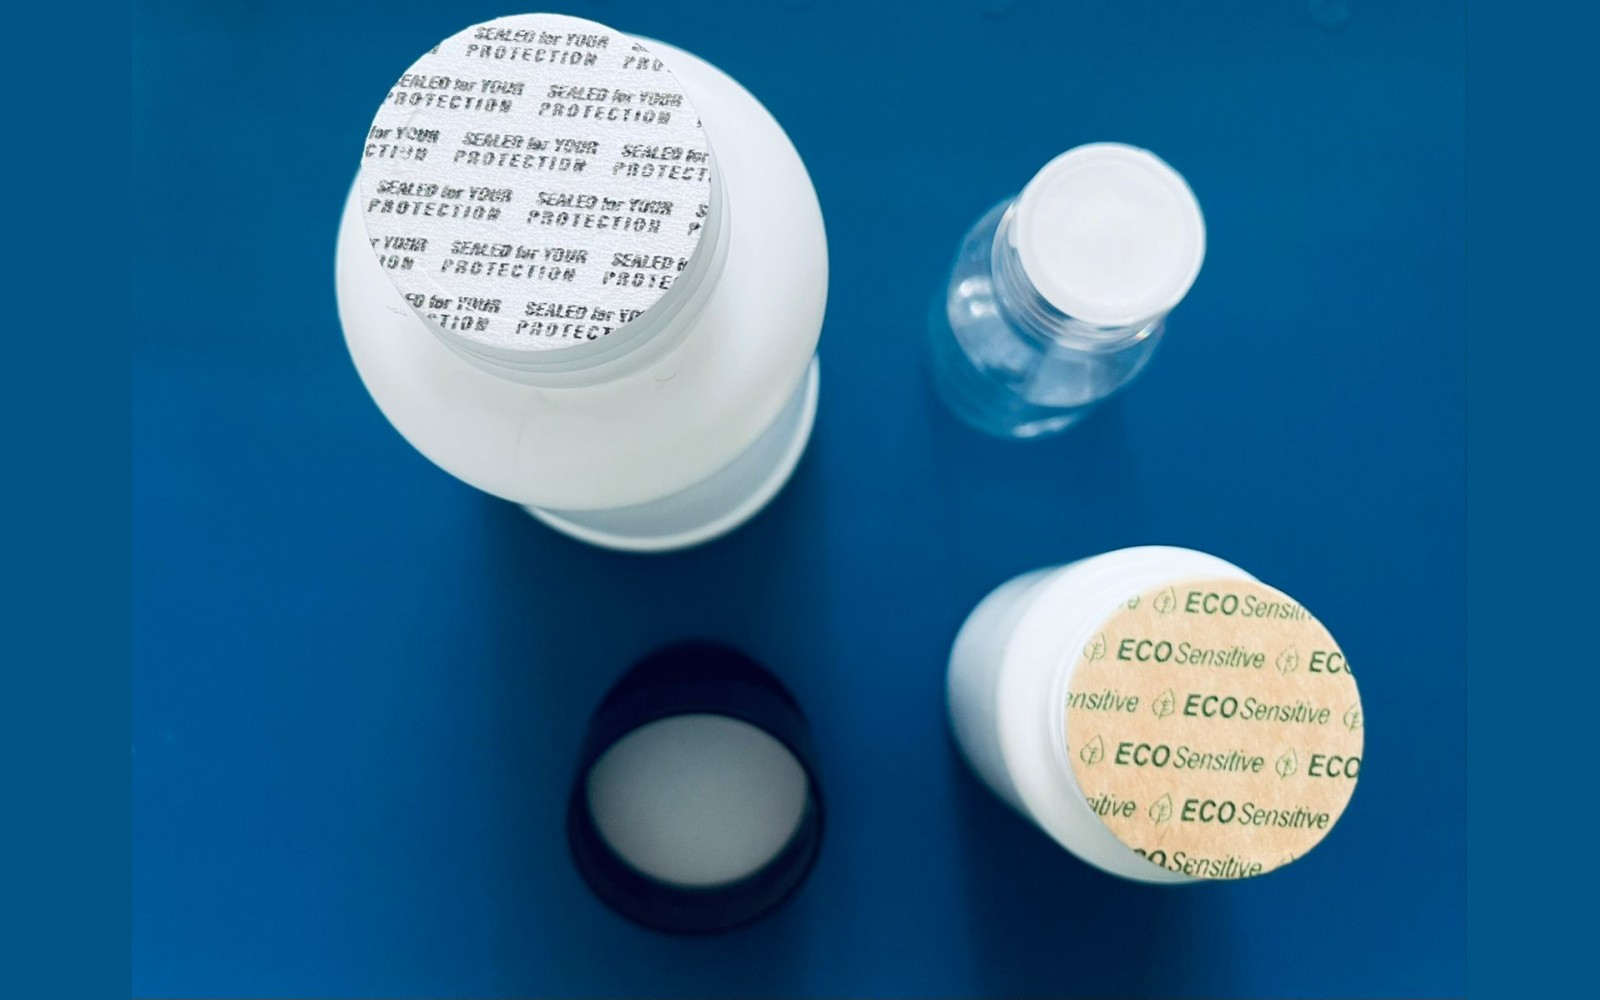
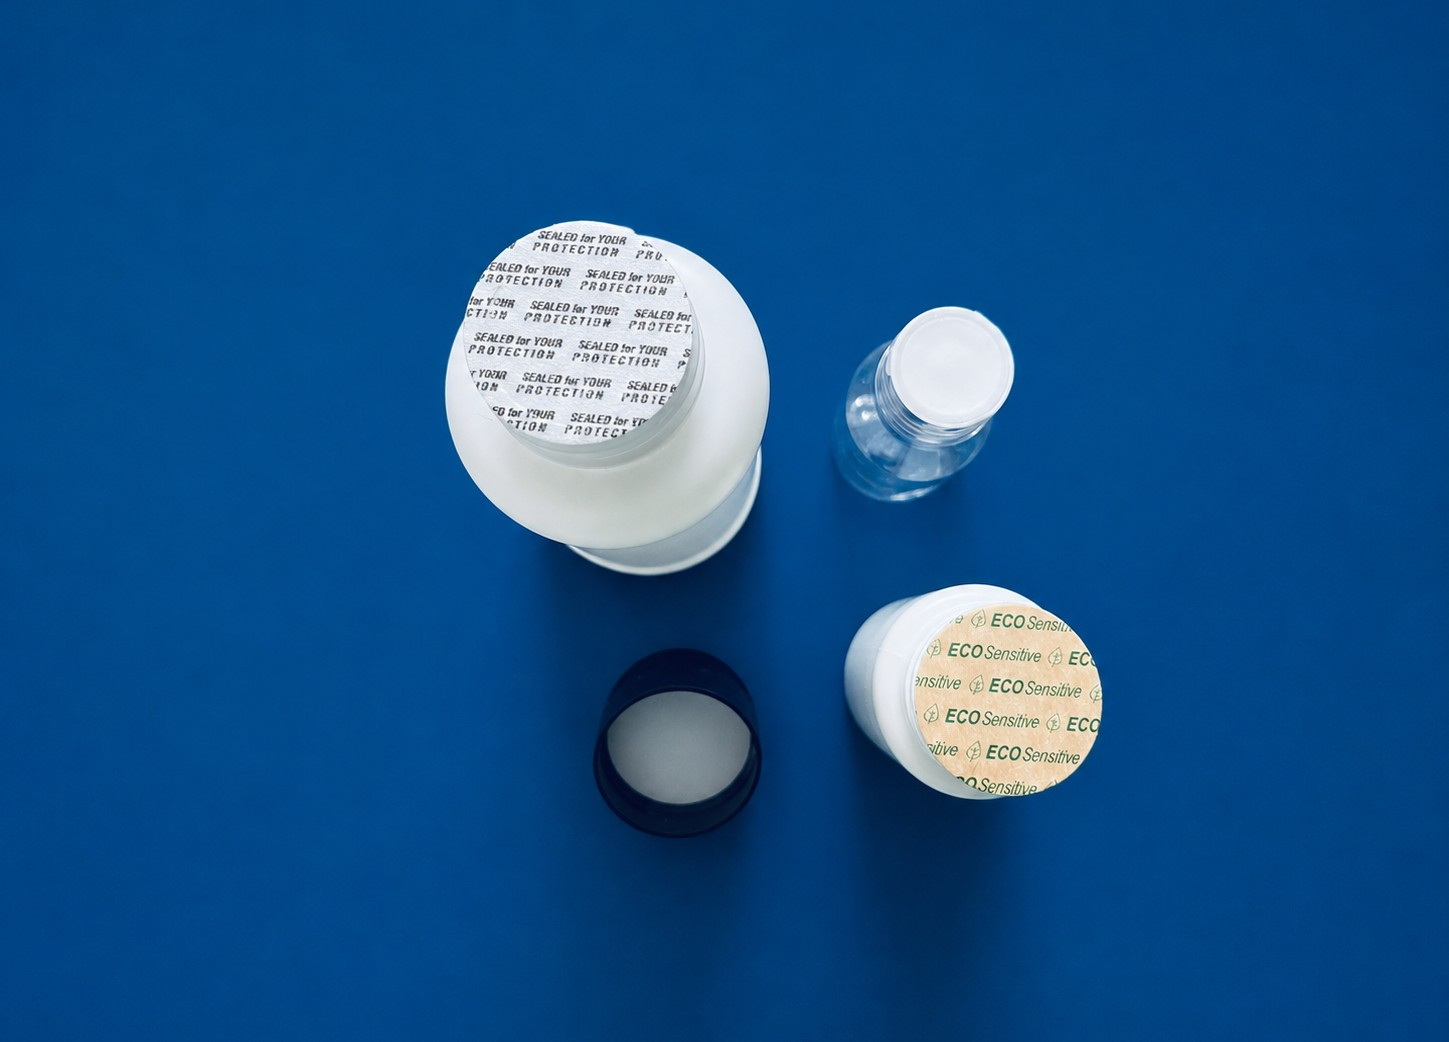
feat: silueta decorativa detras del carrusel del hero, y foto de Seguro sin recorte
Agrega formas onduladas azules suaves y un patron de puntos, en baja
opacidad, detras del carrusel (inspirado en referencia del cliente),
para que la seccion no se vea tan plana.

Reemplaza hero-seguro.jpg por una version con mas margen alrededor
del producto (generada por el cliente) para que no se corte ningun
detalle dentro del carrusel.

diff --git a/public/assets/css/style.css b/public/assets/css/style.css
@@ -71,6 +71,7 @@ img { max-width: 100%; display: block; }
 .hero {
     background: radial-gradient(120% 120% at 80% 0%, var(--primary-soft) 0%, #fff 55%);
     padding: clamp(3rem, 7vw, 6rem) 0;
+    overflow: hidden;
 }
 .hero-inner { display: grid; grid-template-columns: 1.1fr .9fr; gap: 3rem; align-items: center; }
 .badge {
@@ -82,7 +83,26 @@ img { max-width: 100%; display: block; }
 .hero-desc { color: var(--muted); font-size: 1.08rem; max-width: 46ch; margin-bottom: 1.8rem; }
 .hero-actions { display: flex; gap: 1rem; flex-wrap: wrap; }
 
-.hero-carousel { position: relative; height: 360px; border-radius: var(--radius); overflow: hidden; box-shadow: var(--shadow-lg); }
+.hero-visual-wrap { position: relative; }
+.hero-blob {
+    position: absolute; z-index: 0; pointer-events: none;
+    border-radius: 44% 56% 61% 39% / 49% 44% 56% 51%;
+    background: linear-gradient(135deg, var(--primary-soft), rgba(7, 115, 245, .12));
+}
+.hero-blob-1 { width: 300px; height: 300px; top: -50px; left: -40px; opacity: .8; }
+.hero-blob-2 {
+    width: 240px; height: 240px; bottom: -46px; right: -30px; opacity: .7;
+    background: linear-gradient(135deg, rgba(6, 41, 127, .1), var(--primary-soft));
+    border-radius: 58% 42% 39% 61% / 45% 55% 45% 55%;
+}
+.hero-dots-bg {
+    position: absolute; z-index: 0; pointer-events: none;
+    top: 8%; right: -8%; width: 130px; height: 130px;
+    background-image: radial-gradient(var(--primary) 1.6px, transparent 1.6px);
+    background-size: 16px 16px;
+    opacity: .2;
+}
+.hero-carousel { position: relative; z-index: 1; height: 360px; border-radius: var(--radius); overflow: hidden; box-shadow: var(--shadow-lg); }
 .hero-carousel-slide {
     position: absolute; inset: 0; opacity: 0; transition: opacity 1s ease;
     display: flex; align-items: flex-end; justify-content: center;
@@ -242,6 +262,9 @@ img { max-width: 100%; display: block; }
 @media (max-width: 900px) {
     .hero-inner, .about-grid, .contact-grid { grid-template-columns: 1fr; }
     .hero-carousel { height: 280px; margin-top: 1rem; }
+    .hero-blob-1 { width: 220px; height: 220px; top: -30px; left: -20px; }
+    .hero-blob-2 { width: 180px; height: 180px; bottom: -30px; right: -15px; }
+    .hero-dots-bg { width: 100px; height: 100px; right: -4%; }
     .benefits-grid, .products-grid, .testimonials-grid, .footer-grid, .process-grid { grid-template-columns: 1fr 1fr; }
     .nav-toggle { display: flex; }
     .main-nav {
@@ -257,6 +280,9 @@ img { max-width: 100%; display: block; }
     .benefits-grid, .products-grid, .testimonials-grid, .footer-grid, .form-row, .process-grid { grid-template-columns: 1fr; }
     .about-stats { gap: 1.4rem; }
     .hero-carousel { height: 220px; margin-top: 1.5rem; }
+    .hero-blob-1 { width: 160px; height: 160px; top: -20px; left: -10px; }
+    .hero-blob-2 { width: 130px; height: 130px; bottom: -20px; right: -10px; }
+    .hero-dots-bg { display: none; }
 }
 
 /* ===== Blog ===== */

diff --git a/app/Views/home/index.php b/app/Views/home/index.php
@@ -13,14 +13,19 @@
                 <a href="#contacto" class="btn btn-outline btn-lg">Contáctanos</a>
             </div>
         </div>
-        <div class="hero-carousel" id="heroCarousel">
-            <div class="hero-carousel-slide active"><img src="<?= base_url('assets/img/hero-empaques.jpg') ?>" alt="Empaques"><span>Empaques</span></div>
-            <div class="hero-carousel-slide"><img src="<?= base_url('assets/img/hero-seguro.jpg') ?>" alt="Seguro"><span>Seguro</span></div>
-            <div class="hero-carousel-slide"><img src="<?= base_url('assets/img/hero-sostenible.jpg') ?>" alt="Sostenible"><span>Sostenible</span></div>
-            <div class="hero-carousel-dots">
-                <button type="button" class="hero-carousel-dot active" aria-label="Ver Empaques"></button>
-                <button type="button" class="hero-carousel-dot" aria-label="Ver Seguro"></button>
-                <button type="button" class="hero-carousel-dot" aria-label="Ver Sostenible"></button>
+        <div class="hero-visual-wrap">
+            <div class="hero-blob hero-blob-1"></div>
+            <div class="hero-blob hero-blob-2"></div>
+            <div class="hero-dots-bg"></div>
+            <div class="hero-carousel" id="heroCarousel">
+                <div class="hero-carousel-slide active"><img src="<?= base_url('assets/img/hero-empaques.jpg') ?>" alt="Empaques"><span>Empaques</span></div>
+                <div class="hero-carousel-slide"><img src="<?= base_url('assets/img/hero-seguro.jpg') ?>" alt="Seguro"><span>Seguro</span></div>
+                <div class="hero-carousel-slide"><img src="<?= base_url('assets/img/hero-sostenible.jpg') ?>" alt="Sostenible"><span>Sostenible</span></div>
+                <div class="hero-carousel-dots">
+                    <button type="button" class="hero-carousel-dot active" aria-label="Ver Empaques"></button>
+                    <button type="button" class="hero-carousel-dot" aria-label="Ver Seguro"></button>
+                    <button type="button" class="hero-carousel-dot" aria-label="Ver Sostenible"></button>
+                </div>
             </div>
         </div>
     </div>
